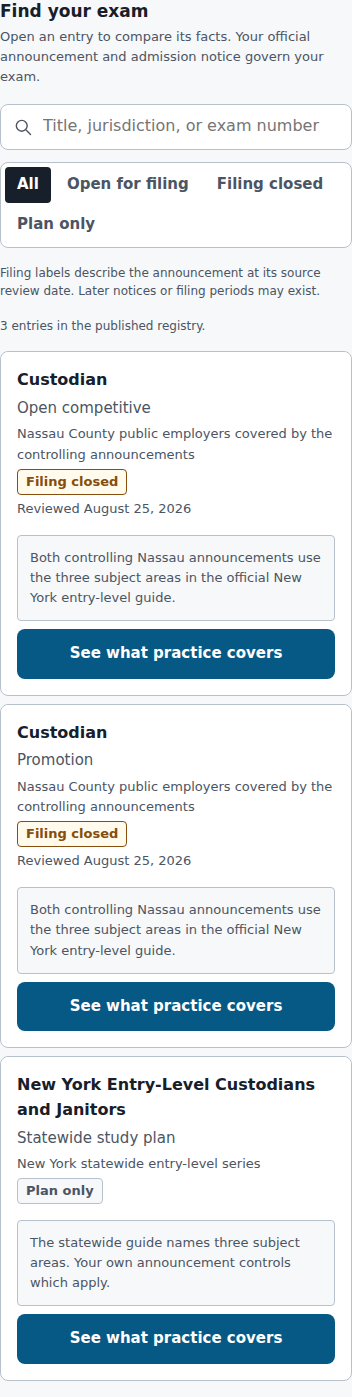
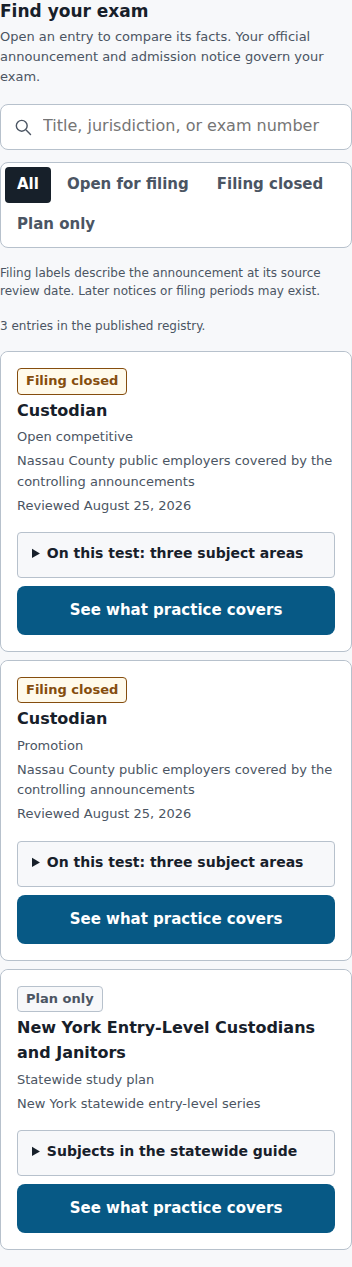
Match compact exam cards with native subject disclosures

Changed region(s): [[0.0, 0.0, 1.0, 1.0], [0.6875, 0.5541, 0.9375, 0.6156], [0.9688, 0.0923, 1.0, 0.1231]]

diff --git a/apps/site/scripts/generate-pages.tsx b/apps/site/scripts/generate-pages.tsx
@@ -1399,7 +1399,7 @@ const buildPages = ({
         <div class="filter-group" role="group" aria-label="Filing status at source review" data-exam-status-filters hidden>${[["all", "All"], ["open", "Open for filing"], ["closed", "Filing closed"], ["plan", "Plan only"]].map(([value, label]) => `<button type="button" data-exam-status-filter="${value}" aria-pressed="${value === "all"}">${label}</button>`).join("")}</div></div>
         <p class="source-note">Filing labels describe the announcement at its source review date. Later notices or filing periods may exist.</p>
         <p class="source-note" data-exam-count role="status">${examRecords.length} entries in the published registry.</p>
-        <div class="record-board"><ul class="record-list" aria-label="Available profiles">${examRecords.map((record) => `<li data-exam-row data-exam-status="${record.identity === null ? "plan" : record.filingReview?.state ?? "unknown"}" data-exam-search-text="${escapeHtml(`${record.title} ${record.kind} ${record.profile.jurisdiction} ${record.identity?.examNumber ?? ""}`.toLowerCase())}"><a class="record-item" data-exam-choice="${record.id}" href="#${record.id}"><strong>${escapeHtml(record.title)}</strong><span class="record-kind">${escapeHtml(record.kind)}</span><span class="record-when">${escapeHtml(record.profile.jurisdiction)}</span><span class="status-chip ${record.filingReview?.state === "closed" ? "status-chip-warning" : "status-chip-neutral"}">${record.identity === null ? "Plan only" : record.filingReview?.state === "closed" ? "Filing closed" : record.filingReview?.state === "open" ? "Open for filing" : "Status unverified"}</span>${record.filingReview === undefined ? "" : `<span class="record-when">Reviewed ${escapeHtml(publicDate(record.filingReview.reviewedOn))}</span>`}</a><div class="exam-card-coverage"><p>${record.identity === null ? "The statewide guide names three subject areas. Your own announcement controls which apply." : escapeHtml(record.profile.testPlanCompatibility.detail)}</p><a class="button button-primary" href="/practice/#covers">See what practice covers</a></div></li>`).join("")}</ul>
+        <div class="record-board"><ul class="record-list" aria-label="Available profiles">${examRecords.map((record) => `<li data-exam-row data-exam-status="${record.identity === null ? "plan" : record.filingReview?.state ?? "unknown"}" data-exam-search-text="${escapeHtml(`${record.title} ${record.kind} ${record.profile.jurisdiction} ${record.identity?.examNumber ?? ""}`.toLowerCase())}"><a class="record-item" data-exam-choice="${record.id}" href="#${record.id}"><strong>${escapeHtml(record.title)}</strong><span class="record-kind">${escapeHtml(record.kind)}</span><span class="record-when">${escapeHtml(record.profile.jurisdiction)}</span><span class="status-chip ${record.filingReview?.state === "closed" ? "status-chip-warning" : "status-chip-neutral"}">${record.identity === null ? "Plan only" : record.filingReview?.state === "closed" ? "Filing closed" : record.filingReview?.state === "open" ? "Open for filing" : "Status unverified"}</span>${record.filingReview === undefined ? "" : `<span class="record-when">Reviewed ${escapeHtml(publicDate(record.filingReview.reviewedOn))}</span>`}</a><div class="exam-card-coverage"><details class="exam-card-subjects"><summary>${record.identity === null ? "Subjects in the statewide guide" : "On this test: three subject areas"}</summary><ol>${subjectAreas.map(area => `<li>${escapeHtml(area)}</li>`).join("")}</ol><p>${record.identity === null ? "Your own announcement controls which subjects apply." : escapeHtml(record.profile.testPlanCompatibility.detail)}</p></details><a class="button button-primary" href="/practice/#covers">See what practice covers</a></div></li>`).join("")}</ul>
           <div class="record-detail-stack"><section class="record-detail" data-exam-prompt hidden><h3>Start with the title on your announcement</h3><p>Choose an entry to read its facts and source support. Reading an entry does not change your study settings.</p></section>${examRecords.map((record) => `<article class="record-detail" id="${record.id}" data-exam-panel tabindex="-1" aria-labelledby="${record.id}-heading"><div class="record-detail-header"><div><p class="record-kind">${escapeHtml(record.kind)}</p><h3 id="${record.id}-heading">${escapeHtml(record.title)}</h3><p>${escapeHtml(record.profile.audience)}</p></div><div class="record-detail-actions"><a class="button button-primary" href="/practice/#covers">See what practice covers</a><a class="button button-secondary" href="${record.profile.canonicalPath}">Read the full profile</a></div></div>
 
             <div class="tabs" role="tablist" aria-label="${escapeHtml(record.title)} details" data-exam-tabs hidden><button type="button" id="${record.id}-facts-tab" role="tab" aria-selected="true" aria-controls="${record.id}-facts" data-record-tab="facts">Announcement facts</button><button type="button" id="${record.id}-subjects-tab" role="tab" aria-selected="false" aria-controls="${record.id}-subjects" data-record-tab="subjects" tabindex="-1">What it tests</button></div>

diff --git a/apps/site/browser-tests/design-handoff.pw.ts b/apps/site/browser-tests/design-handoff.pw.ts
@@ -325,3 +325,35 @@ test("every announcement fact keeps its exact source excerpt without JavaScript"
     }
   } finally { await context.close() }
 })
+
+for (const javaScriptEnabled of [true, false]) {
+  test(`compact exam subject disclosures work with JavaScript ${javaScriptEnabled ? "enabled" : "disabled"}`, async ({ browser, baseURL }) => {
+    if (baseURL === undefined) throw new Error("Browser base URL is required")
+    const context = await browser.newContext({ baseURL, javaScriptEnabled, viewport: { width: 384, height: 900 } })
+    try {
+      const page = await context.newPage()
+      await page.goto("/exams/")
+      const before = page.url()
+      const cards = page.locator(".exam-card-subjects")
+      await expect(cards).toHaveCount(3)
+      for (const card of await cards.all()) {
+        await expect(card.locator("ol")).toBeHidden()
+        await card.locator("summary").focus()
+        await page.keyboard.press("Enter")
+        await expect(card.locator("ol")).toBeVisible()
+        await expect(card.locator("li")).toHaveText([
+          "Cleaning Tools and Their Uses",
+          "Tools Used for Minor Maintenance and Repair",
+          "Health and Safety Issues in Custodial Work"
+        ])
+        await expectPageReflow(page)
+        await page.keyboard.press("Enter")
+        await expect(card.locator("ol")).toBeHidden()
+      }
+      expect(page.url()).toBe(before)
+      if (javaScriptEnabled) await expect(page.locator("[data-exam-panel]:visible")).toHaveCount(0)
+      await page.setViewportSize({ width: 1248, height: 900 })
+      await expect(page.locator(".exam-card-coverage:visible")).toHaveCount(0)
+    } finally { await context.close() }
+  })
+}

diff --git a/apps/site/src/design-system.css b/apps/site/src/design-system.css
@@ -1126,3 +1126,16 @@
     [data-route-id="exam-selector"] .site-footer-meta { font-size: 0.75rem; }
   }
 }
+
+@layer overrides {
+  @media (max-width: 47.99rem) {
+    .exams-page .record-item > .status-chip { order: -1; }
+    .exams-page .record-item > strong { font-size: 1rem; }
+    .exams-page .record-item > .record-kind { font-size: 0.8125rem; }
+    .exam-card-subjects { border: var(--border-thin) solid var(--color-border); border-radius: var(--radius-sm); background: var(--color-canvas); }
+    .exam-card-subjects > summary { padding: 0.625rem 0.875rem; min-block-size: 2.75rem; font-size: 0.875rem; font-weight: var(--weight-medium); cursor: pointer; }
+    .exam-card-subjects > ol { margin: 0; padding: 0 0.875rem 0.5rem 2rem; font-size: 0.8125rem; }
+    .exam-card-subjects > ol > li + li { margin-block-start: 0.25rem; }
+    .exam-card-coverage .exam-card-subjects > p { padding: 0 0.875rem 0.875rem; border: 0; font-size: 0.75rem; }
+  }
+}

diff --git a/design-review/2026-09-07/IMPLEMENTATION-STATUS.md b/design-review/2026-09-07/IMPLEMENTATION-STATUS.md
@@ -14,7 +14,7 @@ The active task is the complete handoff in `/mnt/models/dev/nycustodianexam/IMPL
 | Hazard player | HAZARD-PLAYER-REVIEW.md: responsive workspace, header/save panel, nine real-state captures and nine regression tests | Visual/keyboard layout, integrated retained-image overlay, correction/safe groups and compact recovery captured; final cross-browser and matching-width visual audit remain |
 | Simulation player/results | SIMULATION-NAVIGATOR-REVIEW.md and SIMULATION-FLOW-REVIEW.md: navigator, player/timer and question-result captures at 1008/384; restore/focus checks; 24 three-browser regressions pass | Visual/keyboard hazard player/results now captured at both widths; no-concerns target corrected and six three-browser hazard regressions pass; final integrated audit and separate Static Assets check remain |
 | Print configuration | Ten products and effective controls; reviewed document scope | PRINT-OUTPUT-REVIEW.md: actual Letter/A4 question PDFs and searchable-text fix; preview rows/actions and warning/error panels reconciled; twelve ready/recovery captures and 27 three-browser print checks pass; fresh Letter/A4 PDFs retain searchable text; all 45 extended large-print/tool PDF pages audited and grid-fragmentation overlap fixed; current PDFs and per-page verification retained; 42 hazard worksheet/answer/text PDF pages audited with pagination fixes; large-print heading/URL sizing fixed with fresh PDF evidence; source-inclusive hazard estimates now finalize from assembled content; final other-product PDF refresh remains |
-| Exams / Settings / Offline / report | UTILITY-PAGES-REVIEW.md: first-visit desktop/compact captures, Settings action layout/Offline grouping and recovery checks | Delete preview cancellation/captures verified; returning saved-work counts and Offline installed summaries now use actual storage with empty/unavailable captures; export contents scope is disclosed; Exams header/compact cards and announcement-first ordering reconciled with six three-browser checks and refreshed overview/record captures; cycle responsive order/source disclosure reconciled with 17 generation tests and nine three-browser checks; source-bound filing classifications and combined URL-restored filters implemented with 22 unit and 12 three-browser checks; date milestones consolidated with bound-source metadata and matching compact rows; full-page audit captured; record-source consolidation, desktop filter alignment, and compact prompt removal verified with 60 browser checks and refreshed captures; sourced format section and compact spacing/footer added with three-browser source-navigation checks; compact card/control density and report comparison remain; coverage action and three-browser navigation checks pass; all record/tab states captured; actual Offline active/removal/unavailable states captured |
+| Exams / Settings / Offline / report | UTILITY-PAGES-REVIEW.md: first-visit desktop/compact captures, Settings action layout/Offline grouping and recovery checks | Delete preview cancellation/captures verified; returning saved-work counts and Offline installed summaries now use actual storage with empty/unavailable captures; export contents scope is disclosed; Exams header/compact cards and announcement-first ordering reconciled with six three-browser checks and refreshed overview/record captures; cycle responsive order/source disclosure reconciled with 17 generation tests and nine three-browser checks; source-bound filing classifications and combined URL-restored filters implemented with 22 unit and 12 three-browser checks; date milestones consolidated with bound-source metadata and matching compact rows; full-page audit captured; record-source consolidation, desktop filter alignment, and compact prompt removal verified with 60 browser checks and refreshed captures; sourced format section and compact spacing/footer added with three-browser source-navigation checks; compact cards now use native subject disclosures and badge-first hierarchy, verified with 24 browser checks; compact controls/footer comparison and report comparison remain; coverage action and three-browser navigation checks pass; all record/tab states captured; actual Offline active/removal/unavailable states captured |
 | Final validation/publication | First-slice local commit; next slice in progress | Combined 102 core browser checks yielded 100 passes and two Offline reflow failures; scoped grid fix passes all nine targeted cross-browser checks. Remaining full-family checks, evidence index, clean local commits, reviewable publication; never merge/deploy automatically |
 
 Important discovered content difference: the original 90-question simulation metadata had 30 cleaning, 37 maintenance, 5 safety, and 18 mixed/scenario questions; pack v4 adds one illustrated maintenance item (91 total), not the prototype's 34/26/30. Preserve real classification and counts. Internal session/profile/version references remain required; global exam selection is removed.

diff --git a/design-review/2026-09-07/UTILITY-PAGES-REVIEW.md b/design-review/2026-09-07/UTILITY-PAGES-REVIEW.md
@@ -296,3 +296,31 @@ design-handoff browser checks passed with the format section and footer; all
 The no-JavaScript check expands the format disclosure, verifies the admission
 notice/count caveats, and confirms its local source link resolves successfully.
 Capture scripts report no page errors.
+
+## Compact card subject disclosures — September 9
+
+Replaced the compact cards' always-visible coverage paragraphs with native
+subject disclosures, matching the accepted Landing prototype's collapsed and
+expanded card behavior. Each list uses the existing published subject names.
+The disclosure includes the announcement compatibility statement, or the
+statewide plan's own-announcement caveat. The filing badge precedes the title
+on compact screens; title and competition text use the reference's smaller
+type hierarchy. Jurisdiction and review date remain visible.
+
+Opening a subject disclosure does not open an announcement record, change the
+URL, or alter study selection. Keyboard Enter toggles it with or without
+JavaScript. The desktop record tabs remain the subject-view interface there.
+The practice coverage action retains its genuine /practice/#covers destination.
+
+Refreshed the overview captures and added cards-subjects-384.png for all three
+expanded lists. Visually inspected collapsed and expanded card crops against
+the compact Landing prototype. The collapsed card group now measures 899px,
+with source qualification available on expansion. Compact search/filter controls
+and the retained site footer remain differences from the short prototype.
+
+Validation: full build/artifact verification and both typechecks pass. All 24
+Exams-focused browser checks pass across Chromium, Firefox, and WebKit, including
+six keyboard-disclosure checks covering JavaScript on/off. The checks verify
+all three subject names, open/closed reflow, unchanged URL, no selected record,
+and hidden compact coverage controls after resizing to desktop. Captures report
+no page errors.
